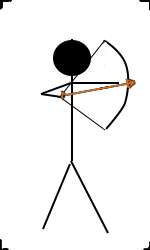
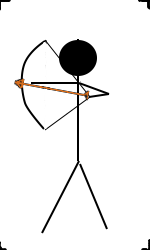
mascara

diff --git a/src/gameObject.cpp b/src/gameObject.cpp
@@ -118,11 +118,11 @@ void PlayerControlFunc(GameObject* go, float time){
 	if(INPUT.KeyPress(KEY_UP))speed.y=-1500.0f;
 	if(INPUT.IsKeyDown(KEY_LEFT) && !INPUT.IsKeyDown(KEY_RIGHT)){
 		speed.x=max(-400.0f,speed.x-800*time);
-		go->flipped=true;
+		go->flipped=false;
 	}
 	else if(INPUT.IsKeyDown(KEY_RIGHT) && !INPUT.IsKeyDown(KEY_LEFT)){
 		speed.x=min( 400.0f,speed.x+800*time);
-		go->flipped=false;
+		go->flipped=true;
 	}
 	else if(speed.x>0.0f)speed.x=max(0.0f,speed.x-800*time);
 	else if(speed.x<0.0f)speed.x=min(0.0f,speed.x+800*time);
@@ -137,13 +137,13 @@ void PlayerControlFunc(GameObject* go, float time){
 		//TODO: prevent firing arrows inside other objects
 		float force=1000 + (1000-rand()%2000)/10.0f;
 		float angle=       (1000-rand()%2000)/100.0f;
-		if(go->flipped){
+		if(!go->flipped){
 			Vec2 pos{go->box.x-150-5,go->box.y+85};
-			GAMESTATE.AddObject(GameObject::MakeBullet(pos,"img/arrow.png",go,force,180+angle+10,true));
+			GAMESTATE.AddObject(GameObject::MakeBullet(pos,"player_projectile.txt",go,force,180+angle+10,10,16,true));
 		}
 		else{
 			Vec2 pos{go->box.x+go->box.w+5,go->box.y+85};
-			GAMESTATE.AddObject(GameObject::MakeBullet(pos,"img/arrow.png",go,force,angle-10,true));
+			GAMESTATE.AddObject(GameObject::MakeBullet(pos,"player_projectile.txt",go,force,angle-10,10,16,true));
 		}
 	}
 }
@@ -190,20 +190,23 @@ GameObject* GameObject::MakeTarget(const Vec2 &pos){
 }
 
 
-GameObject* GameObject::MakeBullet(const Vec2 &pos,string image,GameObject* go,float force,float angle,bool stick){
-	CompStaticRender* img = new CompStaticRender{Sprite{image},Vec2{}};
-	float width=img->sp.GetWidth();
-	float height=img->sp.GetHeight();
+GameObject* GameObject::MakeBullet(const Vec2 &pos,string animFile,GameObject* go,float force,float angle,int dmgLow,int dmgHigh,bool stick){
+	dmgHigh=max(dmgHigh,dmgLow+1);
+
+	CompAnim* anim = new CompAnim{animFile};
+	float width=anim->sp.GetWidth();
+	float height=anim->sp.GetHeight();
 
 	GameObject *arrow = new GameObject{{pos.x,pos.y,width,height}};
+	arrow->flipped=true;
 	arrow->rotation=angle;
-	arrow->AddComponent(img);
+	arrow->AddComponent(anim);
 	arrow->AddComponent(new CompMovement{Vec2::makeVec2(force,angle),CompMovement::moveType::t_bullet});
 
 	CompCollider *collider = new CompCollider{CompCollider::collType::t_bullet};
 	collider->useDefault[CompCollider::collType::t_bullet] = EmptyCollision;
 
-	auto foo = [image,stick,go](const CompCollider* a,const CompCollider* b){
+	auto foo = [stick,go,dmgLow,dmgHigh](const CompCollider* a,const CompCollider* b){
 		if(go==b->entity)return;
 
 		Vec2 &speed=((CompMovement*)a->entity->components[Component::type::t_movement])->speed;
@@ -217,14 +220,18 @@ GameObject* GameObject::MakeBullet(const Vec2 &pos,string image,GameObject* go,f
 
 			if(stick && !b->entity->hasComponent[Component::type::t_movement]){
 				GameObject *arrow = new GameObject{a->entity->box + move + totMove/4.0f};
+				arrow->flipped=true;
 				arrow->rotation=a->entity->rotation;
-				arrow->AddComponent(new CompStaticRender{Sprite{image},Vec2{}});
+				Sprite sp = ((CompAnim*)a->entity->components[Component::type::t_animation])->sp;
+				sp.SetFrameTime(-1.0f);
+				arrow->AddComponent(new CompStaticRender{sp,Vec2{}});
 				GAMESTATE.AddObject(arrow);
 				arrow->AttachTo(b->entity);
 			}
 
 			if(b->entity->hasComponent[Component::type::t_hp]){
-				((CompHP*)b->entity->components[Component::type::t_hp])->Damage(7+rand()%6);
+				int dmg = dmgLow+rand()%(dmgHigh-dmgLow);
+				((CompHP*)b->entity->components[Component::type::t_hp])->Damage(dmg);
 			}
 		}
 	};
@@ -385,8 +392,8 @@ GameObject* GameObject::MakeBanshee(const Vec2 &pos,const Vec2 &pos2){
 	return banshee;
 }
 
-#define MASK_ATTACK_DIST 200
-#define MASK_SEE_DIST 500
+#define MASK_ATTACK_DIST 500
+#define MASK_SEE_DIST 1000
 void MaskAIfunc(CompAI* ai,float time){
 	CompAnimControl* ac = ((CompAnimControl*)ai->entity->components[Component::type::t_animation_control]);
 	if(ai->states[0]==CompAI::state::idling){

diff --git a/src/sprite.cpp b/src/sprite.cpp
@@ -39,16 +39,12 @@ void Sprite::Render(int x,int y,float angle, float extScale){
 	dest.h=ceil(clipRect.h * scaleY * extScale);
 	
 	SDL_RendererFlip flip = SDL_FLIP_NONE;
-	float ang = angle;
-	if(flipH && flipV)
-		ang += (angle<180?180:-180);
-	else if(flipH && !flipV)
-		flip = SDL_FLIP_HORIZONTAL;
-	else if(!flipH && flipV)
-		flip = SDL_FLIP_VERTICAL;
+	if(flipH && flipV)angle += (angle<180?180:-180);
+	else if(flipH)flip = SDL_FLIP_HORIZONTAL;
+	else if(flipV)flip = SDL_FLIP_VERTICAL;
 	//cout << "rendering with size " << dest.w << "," << dest.h << " fCount = " << frameCount << endl;
 	//SDL_RenderCopyEx(GAMERENDER,texture,nullptr,nullptr,angle,nullptr,SDL_FLIP_NONE);
-	SDL_RenderCopyEx(GAMERENDER,texture.get(),&clipRect,&dest,ang,nullptr,flip);
+	SDL_RenderCopyEx(GAMERENDER,texture.get(),&clipRect,&dest,angle,nullptr,flip);
 }
 
 void Sprite::Render(Vec2 v, float angle, float extScale) {
@@ -56,7 +52,7 @@ void Sprite::Render(Vec2 v, float angle, float extScale) {
 }
 
 void Sprite::Update(float time){
-	if(frameCount==1)return;
+	if(frameCount==1 || frameTime<0)return;
 	timeElapsed+=time;
 	if(timeElapsed>frameTime){
 		timeElapsed-=frameTime;

diff --git a/src/componentAnimation.cpp b/src/componentAnimation.cpp
@@ -8,10 +8,10 @@
 
 CompAnim::CompAnim(){}
 CompAnim::CompAnim(string file){
-	string name,imgFile,func;
+	string name,imgFile,func,animFile;
 	int fCount,dmgLow,dmgHigh;
-	float fTime,x,y,w,h,r;
-	bool dmgSelf;
+	float fTime,x,y,w,h,r,f;
+	bool dmgSelf,stick;
 
 	ifstream in(ANIMATION_PATH+file);
 	if(!in.is_open())cout << "Erro ao abrir arquivo de animação '" << file << "'" << endl;
@@ -45,6 +45,20 @@ CompAnim::CompAnim(string file){
 								}
 							}
 						}
+					};
+				}
+				if(func=="fireProjectile"){
+					in >> x >> y >> f >> r >> dmgLow >> dmgHigh >> animFile >> stick;
+					dmgHigh=max(dmgHigh,dmgLow+1);
+					frameFunc[i] = [x,y,f,r,dmgLow,dmgHigh,animFile,stick](GameObject* self){
+						Vec2 pos = self->box.corner();
+						float ang=r;
+						if(self->flipped)pos.x += self->box.w * x;
+						else pos.x += (self->box.w * (1 - x)),ang+=180;
+						pos.y += self->box.h * y;
+
+						GameObject* bullet = GameObject::MakeBullet(pos,animFile+".txt",self,f,ang,dmgLow,dmgHigh,stick);
+						GAMESTATE.AddObject(bullet);
 					};
 				}
 			}

diff --git a/include/gameObject.hpp b/include/gameObject.hpp
@@ -41,7 +41,7 @@ public:
 
 	static GameObject* MakePlayer(const Vec2 &pos);
 	static GameObject* MakeTarget(const Vec2 &pos);
-	static GameObject* MakeBullet(const Vec2 &pos,string image,GameObject* go,float force,float angle=0.0f,bool stick=true);
+	static GameObject* MakeBullet(const Vec2 &pos,string image,GameObject* go,float force,float angle=0.0f,int dmgLow=10,int dmgHigh=-1,bool stick=true);
 	static GameObject* MakeMike(const Vec2 &pos);
 	static GameObject* MakeBanshee(const Vec2 &pos,const Vec2 &pos2);
 	static GameObject* MakeMask(const Vec2 &pos);

diff --git a/include/common.hpp b/include/common.hpp
@@ -64,6 +64,7 @@ using uint=unsigned int;
 #define FOR2R(cont,min,max) for(int (cont)=(int)(max-1),_min_=(min);(cont)>=_min_;(cont)--)
 #define ABS(x) (((x)<0)?-(x):(x))
 #define BETWEEN(x,a,b) ((x>=a) && (x<b))
+#define DEBUG(x) cerr << #x << " = " << x << endl;
 
 #define SDL_COLOR_BLACK MakeColor(0,0,0)
 #define SDL_COLOR_RED   MakeColor(255,0,0)

diff --git a/include/sprite.hpp b/include/sprite.hpp
@@ -10,14 +10,14 @@ class Sprite{
 	int width;
 	int height;
 	SDL_Rect clipRect;
-	float scaleX;
-	float scaleY;
-	bool flipH;
-	bool flipV;
+	float scaleX=1.0f;
+	float scaleY=1.0f;
+	bool flipH=false;
+	bool flipV=false;
 
 	int frameCount;
 	int currentFrame;
-	float timeElapsed;
+	float timeElapsed=0.0f;
 	float frameTime;
 public:
 	Sprite();
